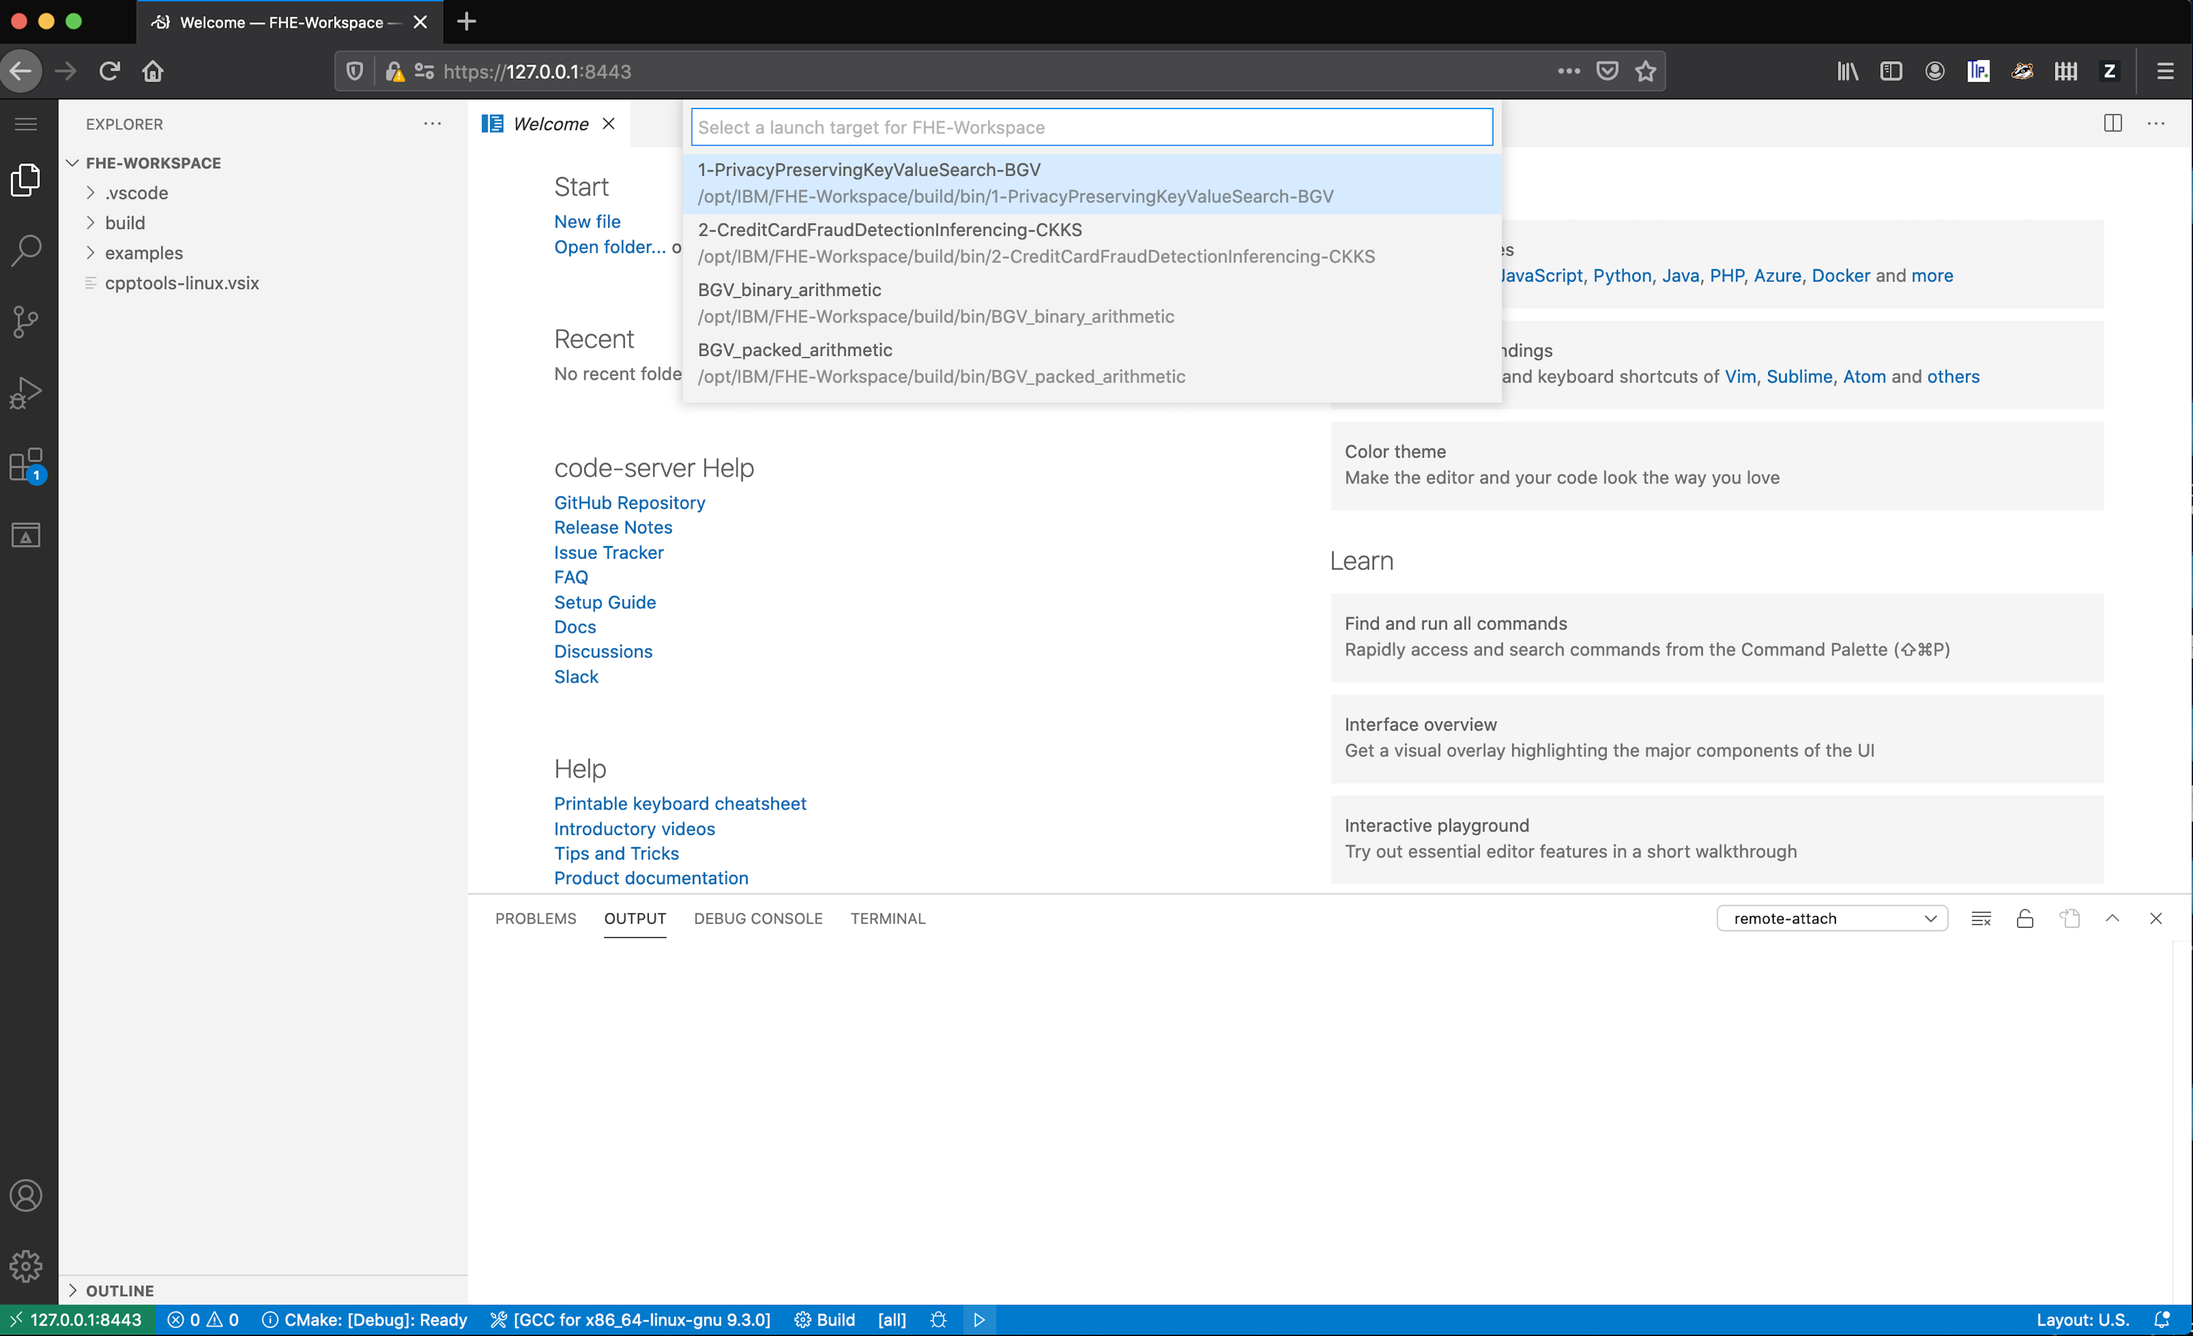
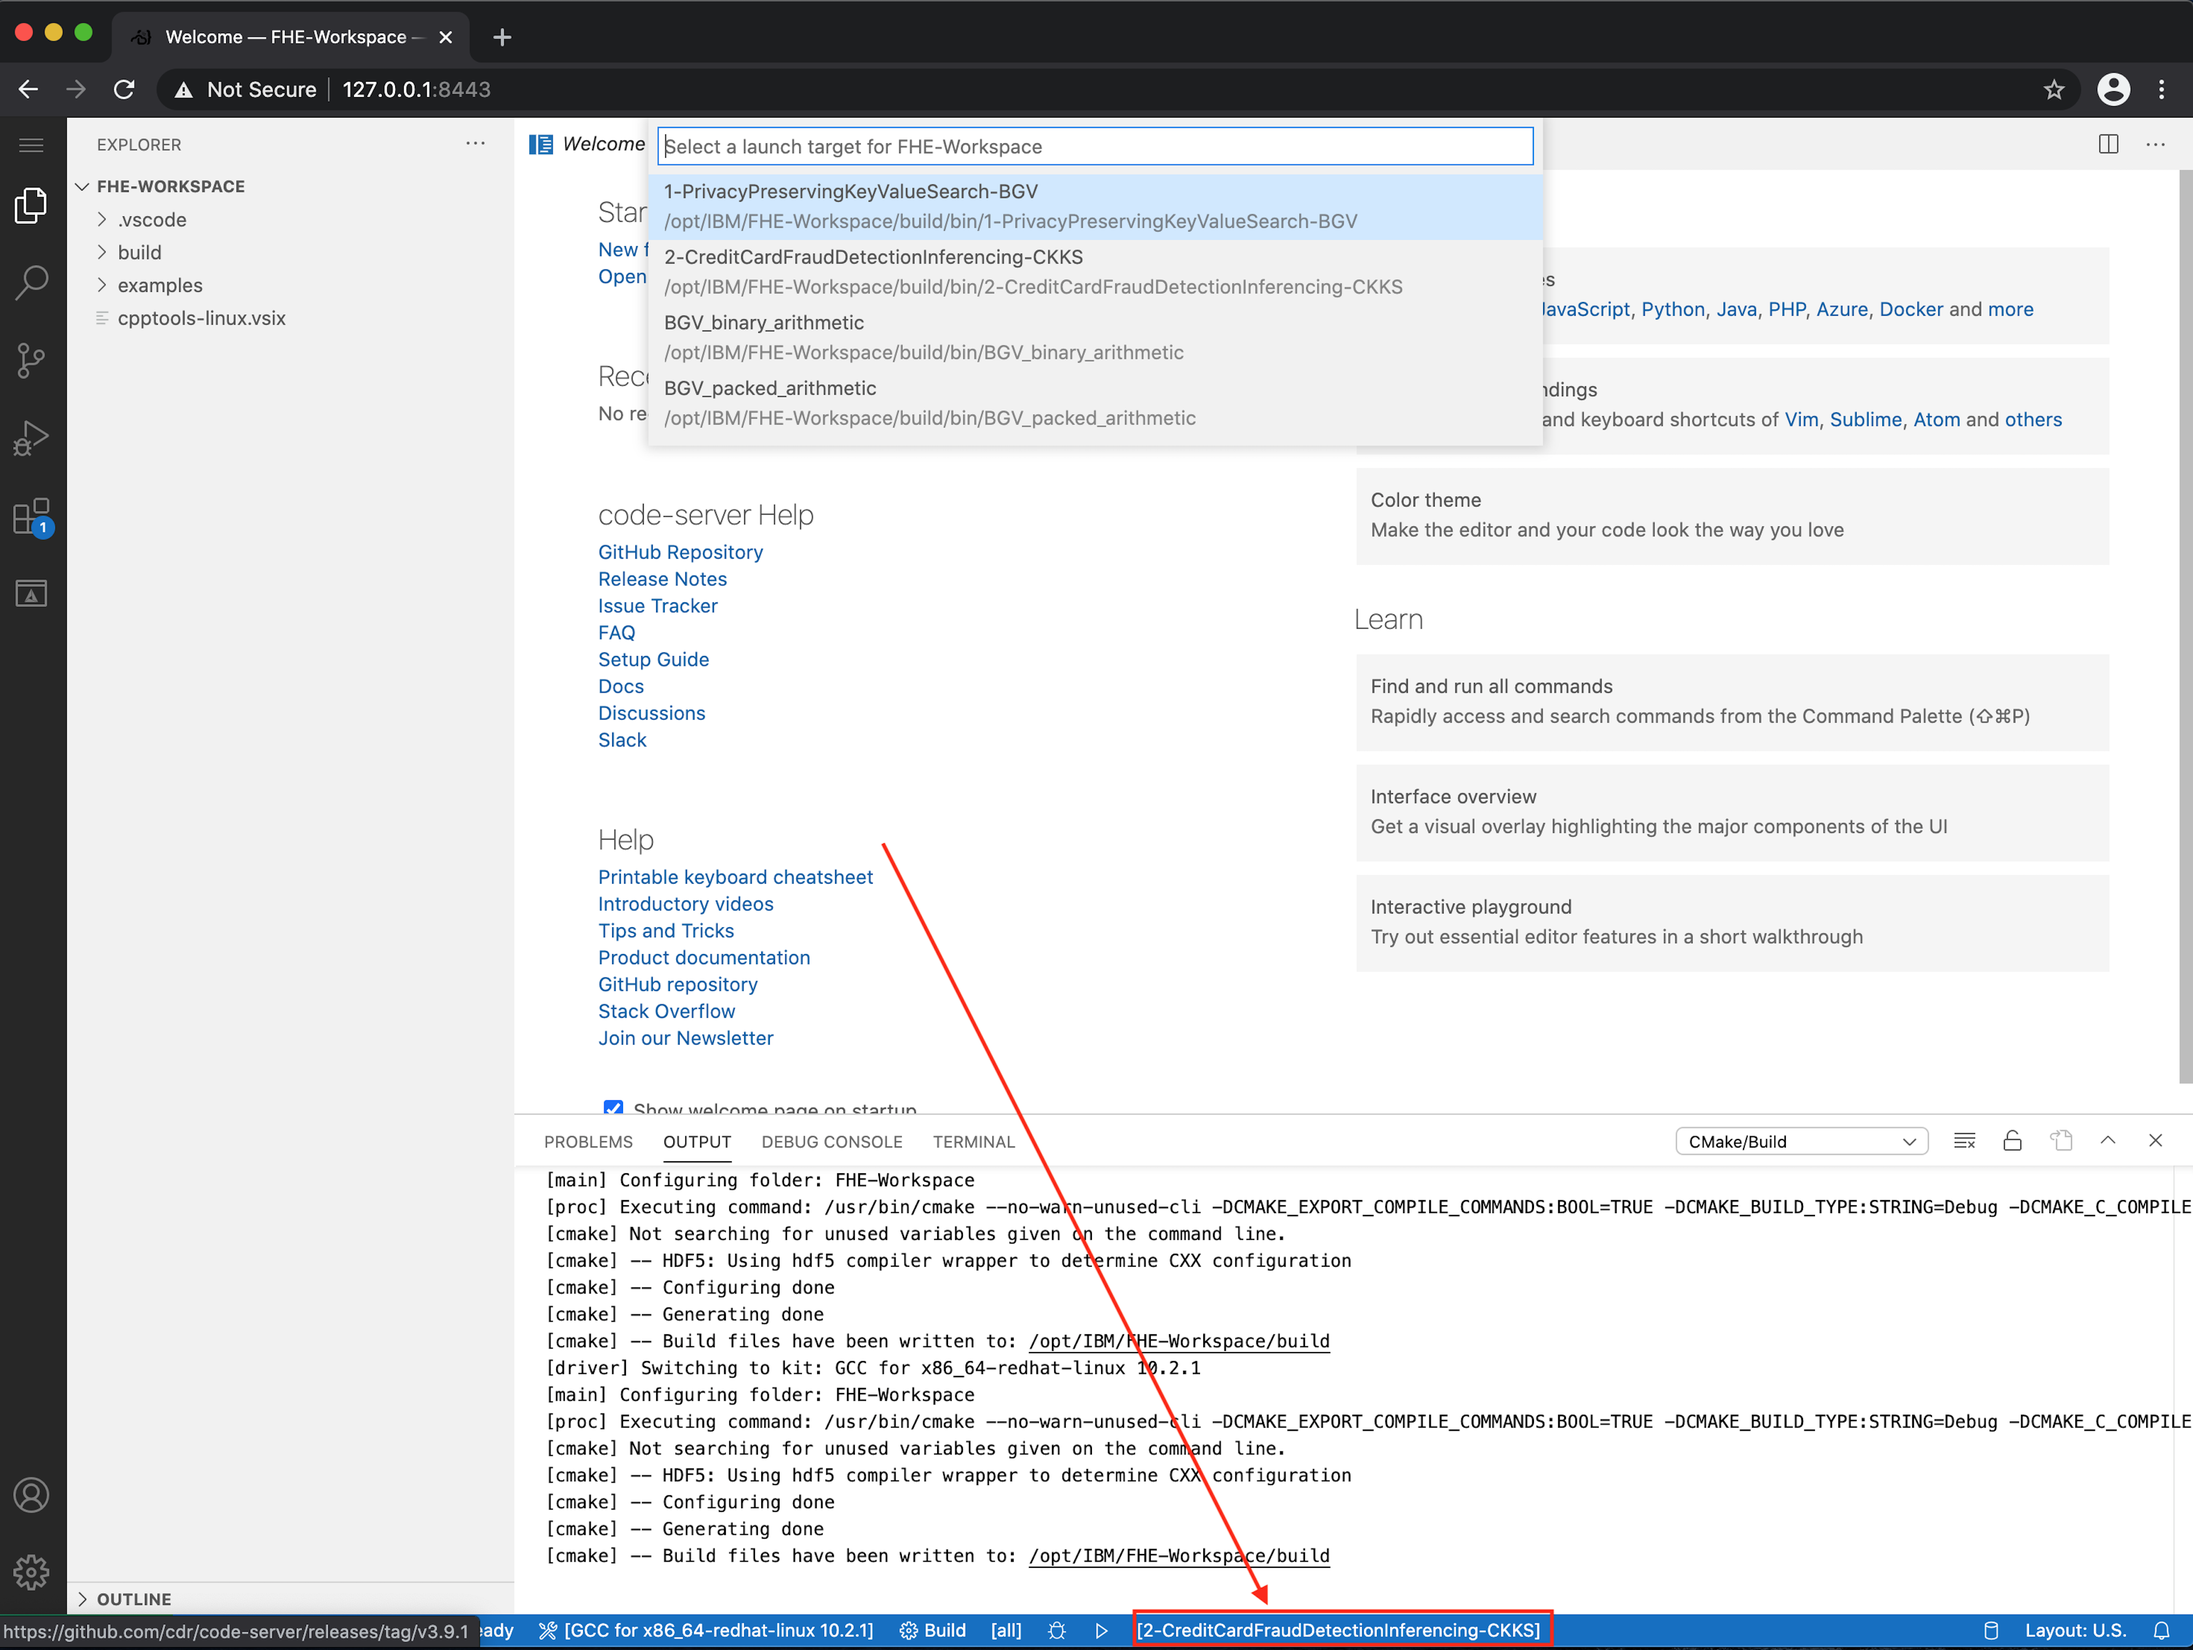
adding more info on the getting started about how to navigate to the different demos including helpful images or appropriate content

diff --git a/GettingStarted.md b/GettingStarted.md
@@ -87,9 +87,23 @@ Click "Build" in the CMake Tools status bar to build the selected target.
 
 ## Step 7: Running the HElib Example (Point and Click)
 
-When the build has finished, click "Launch" in the CMake Tools status bar to launch the selected target in the terminal window.  A dropdown will animate on screen with different demos to choose from to run.  Select one, click enter, and it will run that program.
+When the build has finished, if there is nothing already selected (if this is the first time runing the toolkit, there won't be), click "Launch".  It will cause a dropdown to animate on screen with the list of available demos.  Select one, and it will start running that program.
+
+
+![Step seven image](/Documentation/Images/Step_7A_3.png?raw=true "no demo selected")
+
+
+
+If something has been previously selected it's title will be displayed to the right of the "Launch" button.  To change the selected demo click on the title and the dropdown will animate on screen with the list of available demos. 
+
 
 ![Step seven image](/Documentation/Images/Step_7A_2.png?raw=true "dropdown menu choose")
+
+
+Select one, then click "Launch", and it will run that program.
+
+![Step seven image](/Documentation/Images/Step_7A_2A.png?raw=true "dropdown menu choose")
+
 
 Each demonstration application is in a self contained directory in the examples folder in the IDE. Each demo application directory contains a *README.md* that explains how to run the demo and what you should
 expect for results. For instance, the <a href="samples/BGV_world_country_db_lookup/README.md" target="_blank">BGV World Country Database Lookup Example Documentation</a> contains the information to run a complete example of a privacy preserving search against an encrypted database. The database is a key value store prepopulated with the english names of countries and their capital cities from around the world. Selecting the country will perform a search of the matching capital. 
